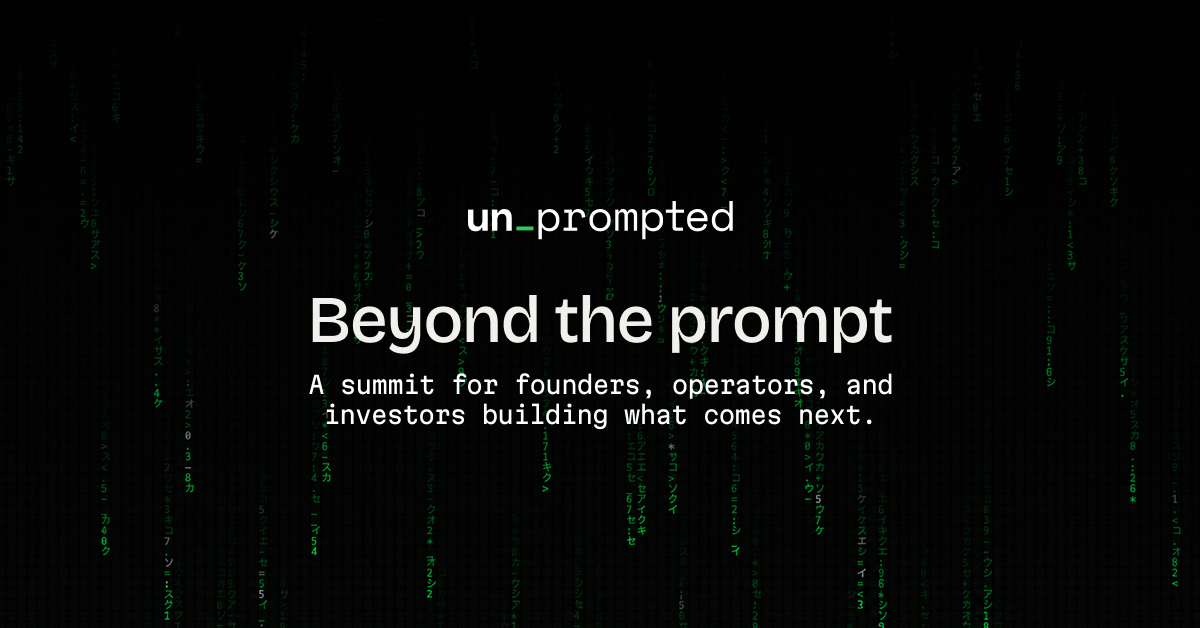
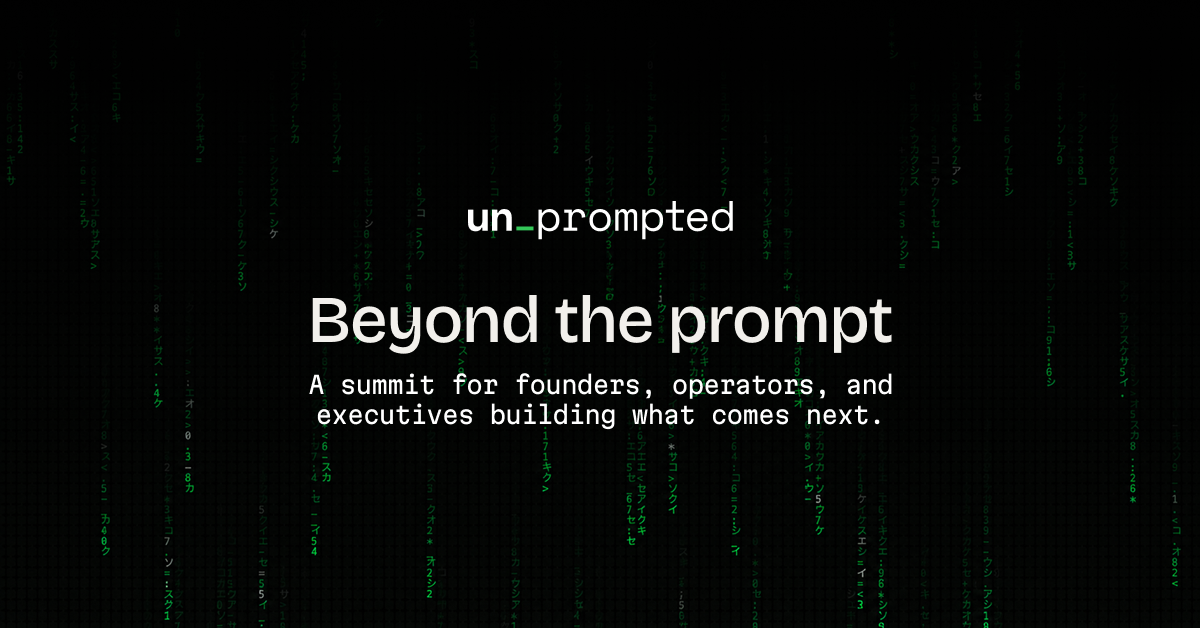
Update copy and Open Graph image

Changed region(s): [[0.2467, 0.6354, 0.74, 0.6959]]

diff --git a/app/components/Speakers.tsx b/app/components/Speakers.tsx
@@ -82,7 +82,7 @@ export default function Speakers() {
 
         <Reveal>
           <SectionHeading width={719} size={36}>
-            More coming soon...
+            Many more being announced soon...
           </SectionHeading>
         </Reveal>
       </div>